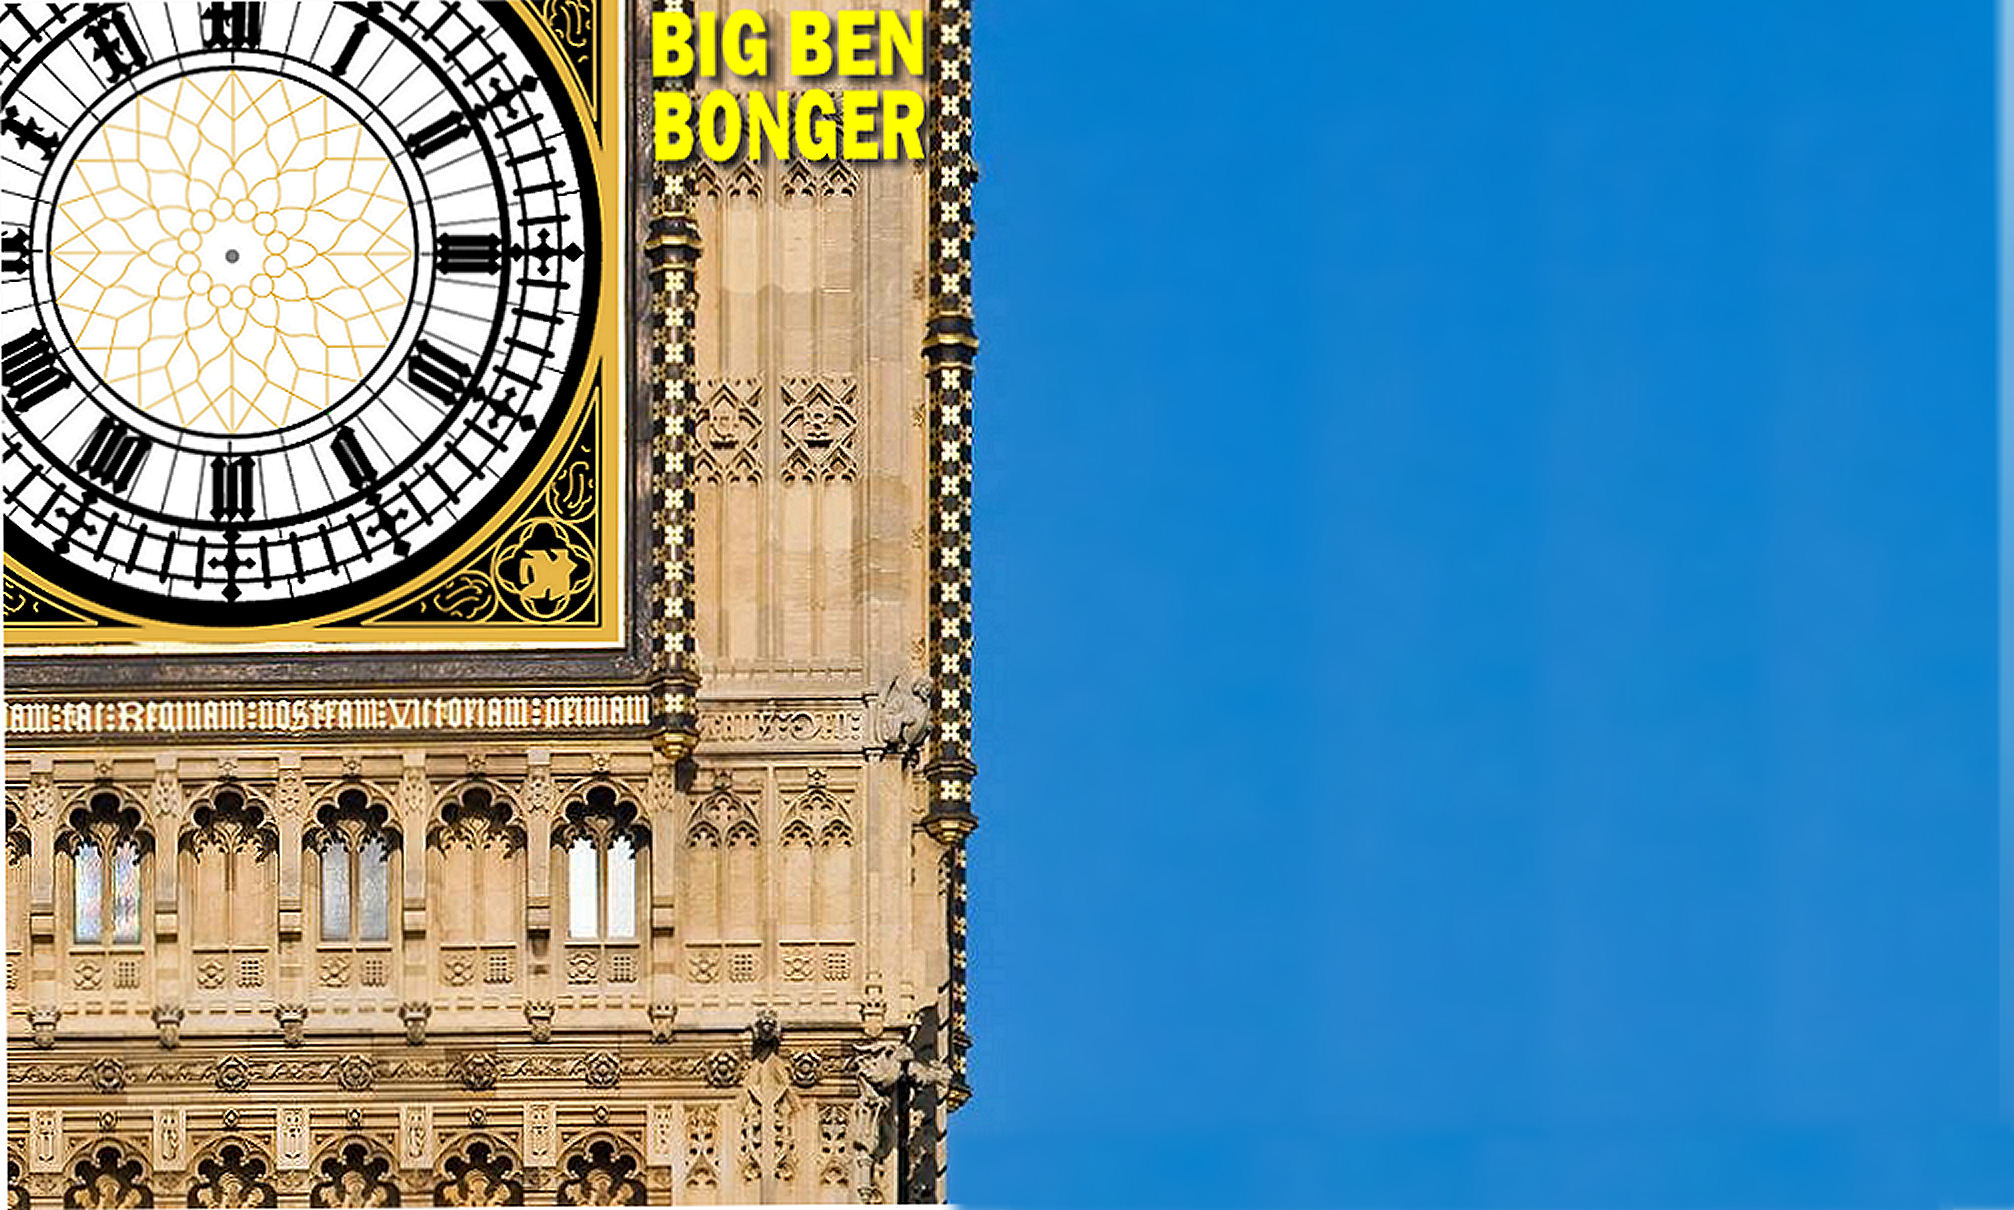
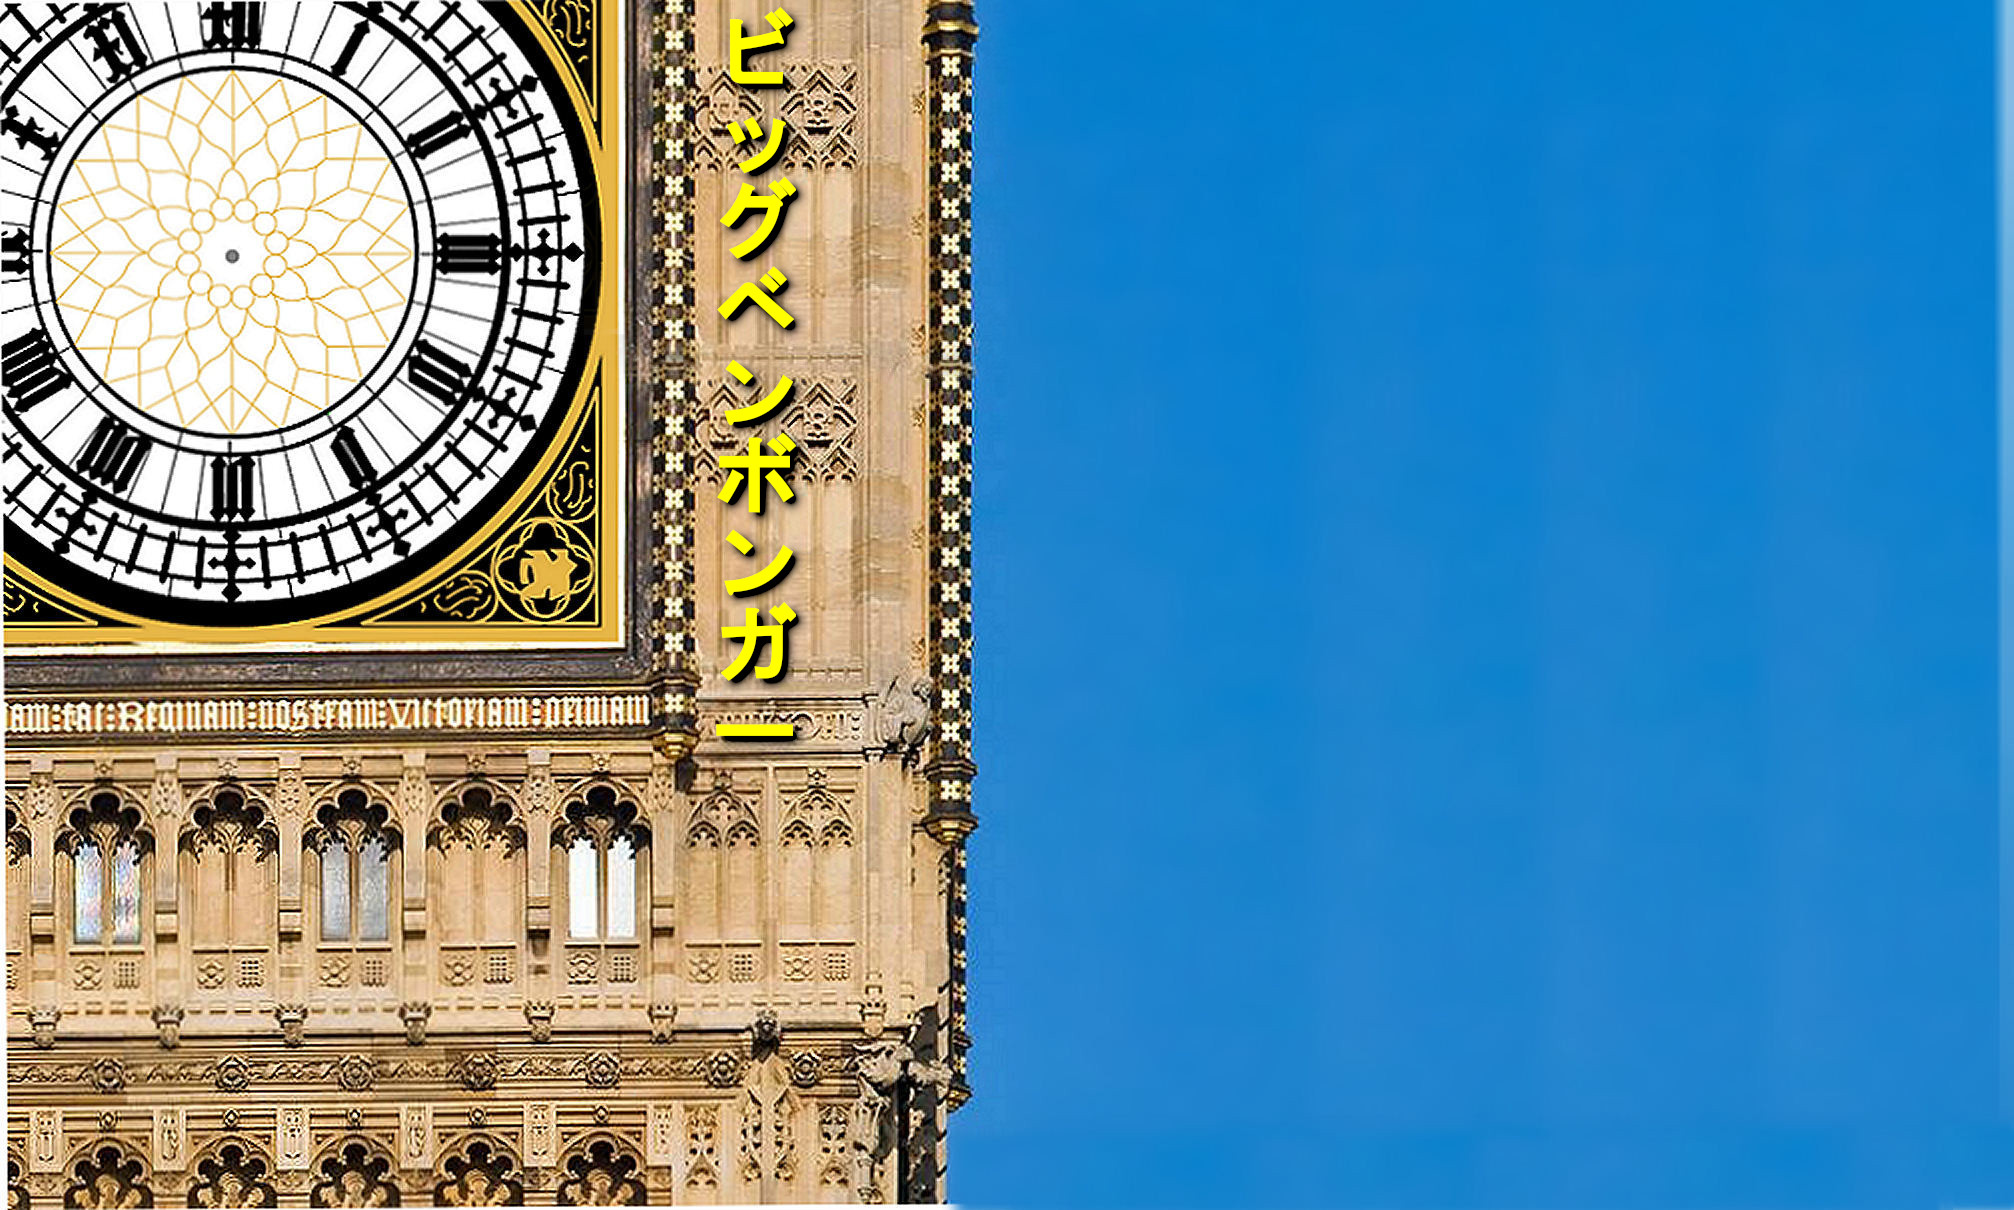
Auto 31090

Changed region(s): [[0.3078, 0.0, 0.4926, 0.6421]]

diff --git a/www/index.html b/www/index.html
@@ -692,6 +692,9 @@
             else if (localStorage["language"] == "hi")   {
               body.style.backgroundImage = 'url(img/bg_hi_pt_sm.jpg)';
             }
+            else if (localStorage["language"] == "ja")   {
+              body.style.backgroundImage = 'url(img/bg_ja_pt_sm.jpg)';
+            }
             else   {
               body.style.backgroundImage = 'url(img/bg_pt_sm.jpg)';
             }
@@ -706,6 +709,9 @@
             }
             else if (localStorage["language"] == "ar")   {
               body.style.backgroundImage = 'url(img/bg_ar_pt_lg.jpg)';
+            }
+            else if (localStorage["language"] == "ja")   {
+              body.style.backgroundImage = 'url(img/bg_ja_pt_lg.jpg)';
             }
             else if (localStorage["language"] == "hi")   {
               body.style.backgroundImage = 'url(img/bg_hi_pt_lg.jpg)';
@@ -735,6 +741,9 @@
             else if (localStorage["language"] == "hi")   {
               body.style.backgroundImage = 'url(img/bg_hi_lscape_sm.jpg)';
             }
+            else if (localStorage["language"] == "ja")   {
+              body.style.backgroundImage = 'url(img/bg_ja_lscape_sm.jpg)';
+            }
             else   {
               body.style.backgroundImage = 'url(img/bg_lscape_sm.jpg)';
             }
@@ -752,6 +761,9 @@
             }
             else if (localStorage["language"] == "hi")   {
               body.style.backgroundImage = 'url(img/bg_hi_lscape_lg.jpg)';
+            }
+            else if (localStorage["language"] == "ja")   {
+              body.style.backgroundImage = 'url(img/bg_ja_lscape_lg.jpg)';
             }
             else   {
               body.style.backgroundImage = 'url(img/bg_lscape_lg.jpg)';
@@ -833,6 +845,9 @@
             else if (localStorage["language"] == "ar")   {
               body.style.backgroundImage = 'url(img/img/bg_ar_lscape_lg.jpg)';
             }
+            else if (localStorage["language"] == "ja")   {
+              body.style.backgroundImage = 'url(img/img/bg_ja_lscape_lg.jpg)';
+            }
             else   {
               body.style.backgroundImage = 'url(img/bg_lscape_lg.jpg)';
             }
@@ -846,6 +861,9 @@
             }
             else if (localStorage["language"] == "ar")   {
               body.style.backgroundImage = 'url(img/bg_ar_pt_lg.jpg)';
+            }
+            else if (localStorage["language"] == "ja")   {
+              body.style.backgroundImage = 'url(img/bg_ja_pt_lg.jpg)';
             }
             else   {
               body.style.backgroundImage = 'url(img/bg_pt_lg.jpg)';
@@ -872,6 +890,9 @@
             else if (localStorage["language"] == "ar")   {
               body.style.backgroundImage = 'url(img/bg_ar_lscape_sm.jpg)';
             }
+            else if (localStorage["language"] == "ja")   {
+              body.style.backgroundImage = 'url(img/bg_ja_lscape_sm.jpg)';
+            }
             else   {
               body.style.backgroundImage = 'url(img/bg_lscape_sm.jpg)';
             }
@@ -886,6 +907,9 @@
             }
             else if (localStorage["language"] == "ar")   {
               body.style.backgroundImage = 'url(img/bg_ar_pt_sm.jpg)';
+            }
+            else if (localStorage["language"] == "ja")   {
+              body.style.backgroundImage = 'url(img/bg_ja_pt_sm.jpg)';
             }
             else   {
               body.style.backgroundImage = 'url(img/bg_pt_sm.jpg)';
@@ -1359,22 +1383,22 @@
 
           else if (localStorage["language"] == "ja")   {
             do24Hr = true;
-//            if (screen.height <= screen.width)   {
-//              if (SIZE == "big")   {
-//                body.style.backgroundImage = 'url(img/bg_ja_lscape_lg.jpg)';
-//              }
-//              else   {
-//                body.style.backgroundImage = 'url(img/bg_ja_lscape_sm.jpg)';
-//              }
-//            }
-//            else   {
-//              if (SIZE == "big")   {
-//                body.style.backgroundImage = 'url(img/bg_ja_pt_lg.jpg)';
-//              }
-//              else   {
-//                body.style.backgroundImage = 'url(img/bg_ja_pt_sm.jpg)';
-//              }
-//            }
+            if (screen.height <= screen.width)   {
+              if (SIZE == "big")   {
+                body.style.backgroundImage = 'url(img/bg_ja_lscape_lg.jpg)';
+              }
+              else   {
+                body.style.backgroundImage = 'url(img/bg_ja_lscape_sm.jpg)';
+              }
+            }
+            else   {
+              if (SIZE == "big")   {
+                body.style.backgroundImage = 'url(img/bg_ja_pt_lg.jpg)';
+              }
+              else   {
+                body.style.backgroundImage = 'url(img/bg_ja_pt_sm.jpg)';
+              }
+            }
 
 //  "Big Ben" = ビッグベン
 //  "Big Ben Bonger" = ビッグベンボンガー
